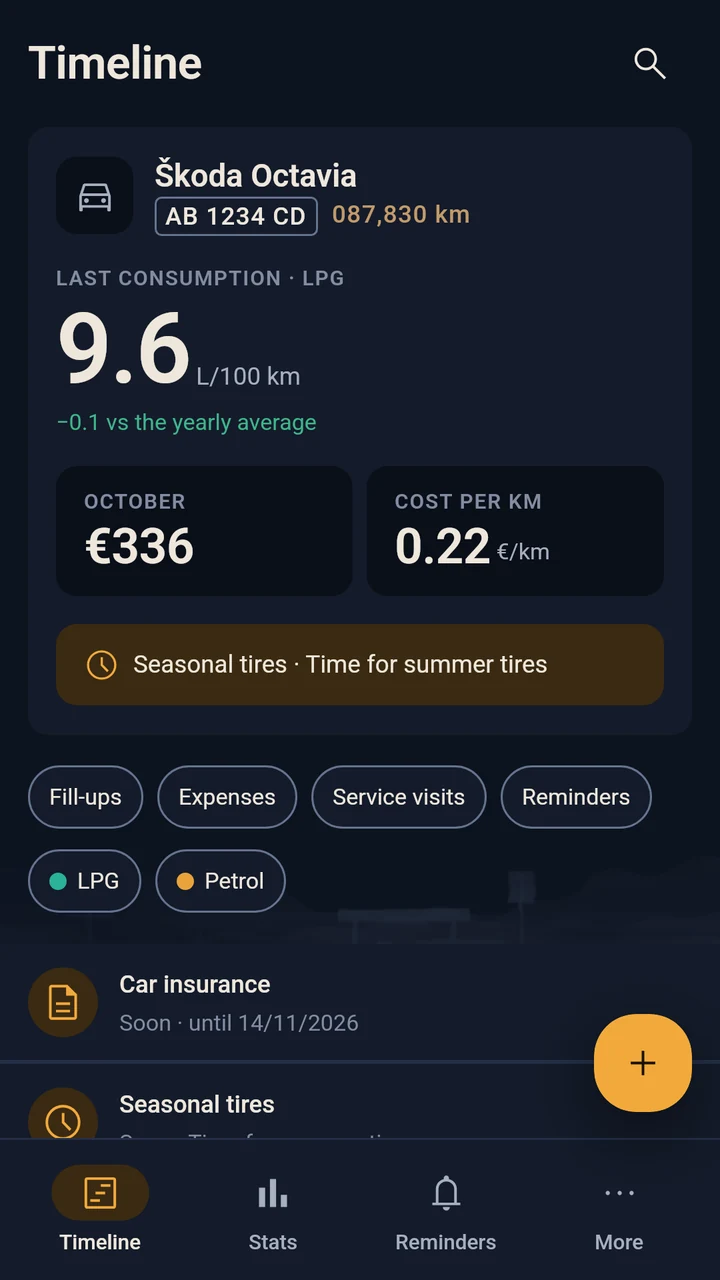
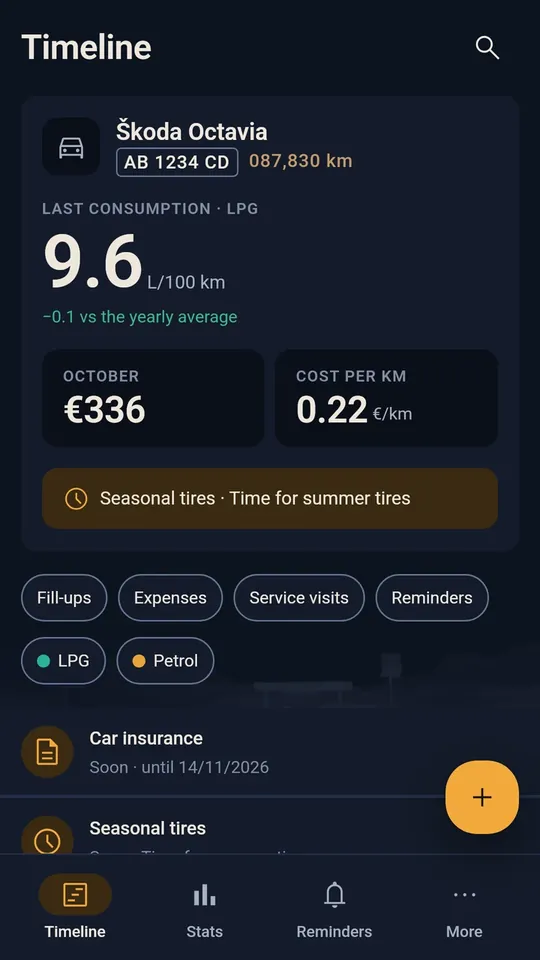
Publish the site from Easy Fuel Log 0019c5b

diff --git a/uk/index.html b/uk/index.html
@@ -52,7 +52,7 @@
       </div>
       <div class="stage tall">
         <span class="tablet"><img src="../assets/screens/uk/tablet.webp" width="1600" height="900" alt="Стрічка на планшеті: останнє споживання й витрати за місяць, а поруч відкрита заправка"></span>
-        <span class="phone"><img src="../assets/screens/uk/timeline.webp" width="360" height="800" alt="Стрічка на телефоні: останнє споживання 9,6 л/100 км, 7 055 ₴ за жовтень, 5,53 ₴/км і нагадування, що час на літні шини"></span>
+        <span class="phone"><img src="../assets/screens/uk/timeline.webp" width="540" height="960" alt="Стрічка на телефоні: останнє споживання 9,6 л/100 км, 7 055 ₴ за жовтень, 5,53 ₴/км і нагадування, що час на літні шини"></span>
       </div>
     </div>
   </section>
@@ -75,7 +75,7 @@
       </div>
 
       <article class="feature">
-        <div class="shot"><span class="phone"><img src="../assets/screens/uk/fillup.webp" width="360" height="800" loading="lazy" alt="Нова заправка: вибрано газ, лічильник одометра, введені ціна й кількість, сума рахується сама, і цифрова клавіатура"></span></div>
+        <div class="shot"><span class="phone"><img src="../assets/screens/uk/fillup.webp" width="540" height="960" loading="lazy" alt="Нова заправка: вибрано газ, лічильник одометра, введені ціна й кількість, сума рахується сама, і цифрова клавіатура"></span></div>
         <div>
           <p class="label">01 · Заправки</p>
           <h3>Заправка менш ніж за десять секунд</h3>
@@ -89,7 +89,7 @@
       </article>
 
       <article class="feature flip">
-        <div class="shot"><span class="phone"><img src="../assets/screens/uk/stats.webp" width="360" height="800" loading="lazy" alt="Статистика за рік: середнє споживання газу, ціна кілометра й графік споживання з лінією середнього"></span></div>
+        <div class="shot"><span class="phone"><img src="../assets/screens/uk/stats.webp" width="540" height="960" loading="lazy" alt="Статистика за рік: середнє споживання газу, ціна кілометра й графік споживання з лінією середнього"></span></div>
         <div>
           <p class="label">02 · Статистика</p>
           <h3>Справжнє споживання — з повних баків</h3>
@@ -103,7 +103,7 @@
       </article>
 
       <article class="feature">
-        <div class="shot"><span class="phone"><img src="../assets/screens/uk/reminders.webp" width="360" height="800" loading="lazy" alt="Нагадування про обслуговування: сезонні шини й заміна мастила, з тим, скільки лишилося"></span></div>
+        <div class="shot"><span class="phone"><img src="../assets/screens/uk/reminders.webp" width="540" height="960" loading="lazy" alt="Нагадування про обслуговування: сезонні шини й заміна мастила, з тим, скільки лишилося"></span></div>
         <div>
           <p class="label">03 · Нагадування</p>
           <h3>ТО й документи вчасно</h3>
@@ -117,7 +117,7 @@
       </article>
 
       <article class="feature flip">
-        <div class="shot"><span class="phone"><img src="../assets/screens/uk/vehicle.webp" width="360" height="800" loading="lazy" alt="Профіль транспорту: марка, модель, рік, двигун і номер, газ і бензин як два види енергії та одометр як лічильник"></span></div>
+        <div class="shot"><span class="phone"><img src="../assets/screens/uk/vehicle.webp" width="540" height="960" loading="lazy" alt="Профіль транспорту: марка, модель, рік, двигун і номер, газ і бензин як два види енергії та одометр як лічильник"></span></div>
         <div>
           <p class="label">04 · Транспорт</p>
           <h3>Будь-який транспорт, будь-яка енергія</h3>

diff --git a/index.html b/index.html
@@ -52,7 +52,7 @@
       </div>
       <div class="stage">
         <span class="tablet"><img src="assets/screens/en/tablet.webp" width="1600" height="900" alt="The timeline on a tablet: the vehicle’s last consumption and this month’s spending, with a fill-up opened beside it"></span>
-        <span class="phone"><img src="assets/screens/en/timeline.webp" width="720" height="1280" alt="The timeline on a phone: last consumption 9.6 L/100 km, €336 in October, 0.22 €/km, and a reminder that summer tires are due"></span>
+        <span class="phone"><img src="assets/screens/en/timeline.webp" width="540" height="960" alt="The timeline on a phone: last consumption 9.6 L/100 km, €336 in October, 0.22 €/km, and a reminder that summer tires are due"></span>
       </div>
     </div>
   </section>
@@ -75,7 +75,7 @@
       </div>
 
       <article class="feature">
-        <div class="shot"><span class="phone"><img src="assets/screens/en/fillup.webp" width="720" height="1280" loading="lazy" alt="The new fill-up form: LPG selected, the odometer counter, price and quantity typed, the total worked out, and a keypad"></span></div>
+        <div class="shot"><span class="phone"><img src="assets/screens/en/fillup.webp" width="540" height="960" loading="lazy" alt="The new fill-up form: LPG selected, the odometer counter, price and quantity typed, the total worked out, and a keypad"></span></div>
         <div>
           <p class="label">01 · Fill-ups</p>
           <h3>A fill-up in under ten seconds</h3>
@@ -89,7 +89,7 @@
       </article>
 
       <article class="feature flip">
-        <div class="shot"><span class="phone"><img src="assets/screens/en/stats.webp" width="720" height="1280" loading="lazy" alt="Statistics for the year: LPG average 9.7 L/100 km, cost 0.22 €/km, and a consumption chart against the average line"></span></div>
+        <div class="shot"><span class="phone"><img src="assets/screens/en/stats.webp" width="540" height="960" loading="lazy" alt="Statistics for the year: LPG average 9.7 L/100 km, cost 0.22 €/km, and a consumption chart against the average line"></span></div>
         <div>
           <p class="label">02 · Statistics</p>
           <h3>Real consumption, from full tanks</h3>
@@ -103,7 +103,7 @@
       </article>
 
       <article class="feature">
-        <div class="shot"><span class="phone"><img src="assets/screens/en/reminders.webp" width="720" height="1280" loading="lazy" alt="Service reminders: seasonal tires, and an oil change at 9,360 of 10,000 km, about 24 days away"></span></div>
+        <div class="shot"><span class="phone"><img src="assets/screens/en/reminders.webp" width="540" height="960" loading="lazy" alt="Service reminders: seasonal tires, and an oil change at 9,360 of 10,000 km, about 24 days away"></span></div>
         <div>
           <p class="label">03 · Reminders</p>
           <h3>Service and papers on time</h3>
@@ -117,7 +117,7 @@
       </article>
 
       <article class="feature flip">
-        <div class="shot"><span class="phone"><img src="assets/screens/en/vehicle.webp" width="720" height="1280" loading="lazy" alt="A vehicle’s profile: make, model, year, engine and plate, with LPG and petrol as its two kinds of energy and the odometer as its meter"></span></div>
+        <div class="shot"><span class="phone"><img src="assets/screens/en/vehicle.webp" width="540" height="960" loading="lazy" alt="A vehicle’s profile: make, model, year, engine and plate, with LPG and petrol as its two kinds of energy and the odometer as its meter"></span></div>
         <div>
           <p class="label">04 · Vehicles</p>
           <h3>Any vehicle, any energy</h3>

diff --git a/assets/site.css b/assets/site.css
@@ -99,11 +99,20 @@ header,
 footer {
   max-width: 44rem;
   margin: 0 auto;
-  padding: 0 16px;
+  padding: 0 12px;
+}
+
+@media (min-width: 40rem) {
+  main,
+  header,
+  footer {
+    padding: 0 24px;
+  }
 }
 
 header {
   display: flex;
+  flex-wrap: wrap;
   align-items: center;
   justify-content: space-between;
   gap: 16px;
@@ -155,6 +164,15 @@ h3 {
 p,
 li {
   max-width: 70ch;
+  overflow-wrap: break-word;
+}
+
+code {
+  overflow-wrap: anywhere;
+}
+
+img {
+  max-width: 100%;
 }
 
 a {
@@ -238,12 +256,16 @@ a:focus-visible,
 .home header,
 .home footer,
 .home .wrap {
-  max-width: 72rem;
-  padding-left: 16px;
-  padding-right: 16px;
+  max-width: 80rem;
+  padding-left: 12px;
+  padding-right: 12px;
 }
 
 @media (min-width: 40rem) {
+  .home main {
+    padding: 0;
+  }
+
   .home header,
   .home footer,
   .home .wrap {
@@ -264,7 +286,7 @@ a:focus-visible,
 .home header nav {
   display: flex;
   align-items: center;
-  gap: 20px;
+  gap: 12px 20px;
   font-size: 0.95rem;
 }
 
@@ -508,7 +530,7 @@ a:focus-visible,
 
 .stage {
   position: relative;
-  max-width: 300px;
+  max-width: 240px;
   margin: 0 auto;
   width: 100%;
 }
@@ -529,7 +551,8 @@ a:focus-visible,
 
   /* The tablet at the top right, the phone in front of it at the bottom left. */
   .stage {
-    max-width: none;
+    max-width: 600px;
+    justify-self: end;
     aspect-ratio: 1 / 0.74;
   }
 
@@ -652,7 +675,7 @@ a:focus-visible,
 
 .feature .phone {
   width: 100%;
-  max-width: 280px;
+  max-width: 220px;
   margin: 0 auto;
 }
 
@@ -742,6 +765,7 @@ a:focus-visible,
   }
 
   .feature .phone {
+    max-width: 240px;
     margin: 0;
     justify-self: center;
   }
@@ -753,7 +777,7 @@ a:focus-visible,
 
 /* Big screen */
 .big .tablet {
-  max-width: 60rem;
+  max-width: 52rem;
   margin: 0 auto;
 }
 
@@ -766,7 +790,7 @@ a:focus-visible,
 /* Everything else: a quiet grid of tiles. */
 .tiles {
   display: grid;
-  grid-template-columns: repeat(auto-fill, minmax(18rem, 1fr));
+  grid-template-columns: repeat(auto-fill, minmax(min(18rem, 100%), 1fr));
   gap: 12px;
   list-style: none;
   padding: 0;
@@ -778,7 +802,7 @@ a:focus-visible,
   background: var(--surface);
   border: 1px solid var(--line);
   border-radius: 12px;
-  padding: 20px;
+  padding: 16px;
   box-shadow: var(--elevation-1);
 }
 
@@ -807,7 +831,7 @@ a:focus-visible,
 .get .card {
   max-width: 44rem;
   margin: 0 auto;
-  padding: 28px 28px 24px;
+  padding: 20px 16px;
   text-align: center;
   box-shadow: var(--elevation-1);
 }
@@ -861,7 +885,7 @@ a:focus-visible,
   background: var(--surface);
   border: 1px solid var(--line);
   border-radius: 12px;
-  padding: 4px 20px 8px;
+  padding: 4px 16px 8px;
   box-shadow: var(--elevation-1);
 }
 
